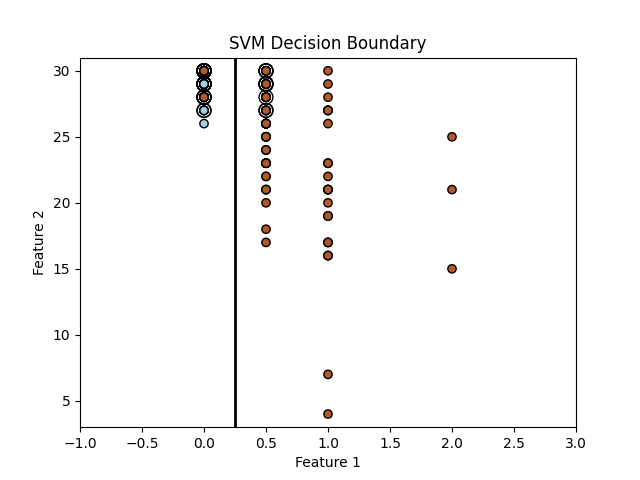
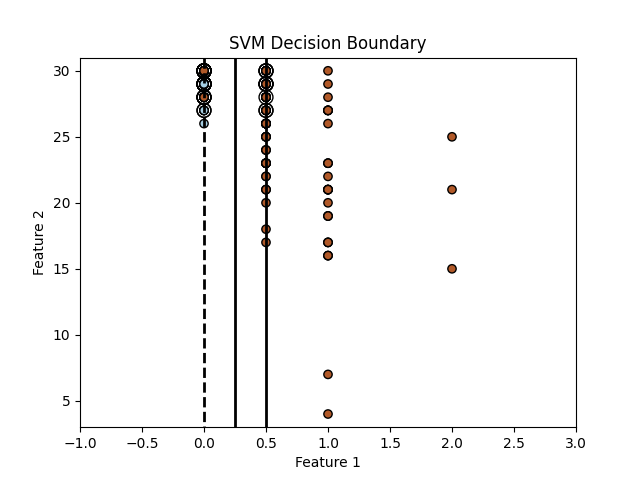
2nd version of SVM plot, not quite right.

Changed region(s): [[0.4062, 0.25, 0.4375, 0.875], [0.3125, 0.2812, 0.3438, 0.875], [0.4062, 0.125, 0.4375, 0.1562]]

diff --git a/alzheimer_prediction/postprocessing.py b/alzheimer_prediction/postprocessing.py
@@ -15,7 +15,7 @@ def create_2D_SVM(x_train, y_train, seed):
     Z = clf.decision_function(np.c_[xx.ravel(), yy.ravel()])
     Z = Z.reshape(xx.shape)
 
-    plt.contour(xx, yy, Z, levels=[0], linewidths=2, colors='black')
+    plt.contour(xx, yy, Z, levels=[-1, 0, 1], linewidths=2, colors='black')
 
     # Plot data points
     plt.scatter(x_train['CDR'], x_train['MMSE'], c=y_train, cmap=plt.cm.Paired, edgecolors='k', marker='o')
